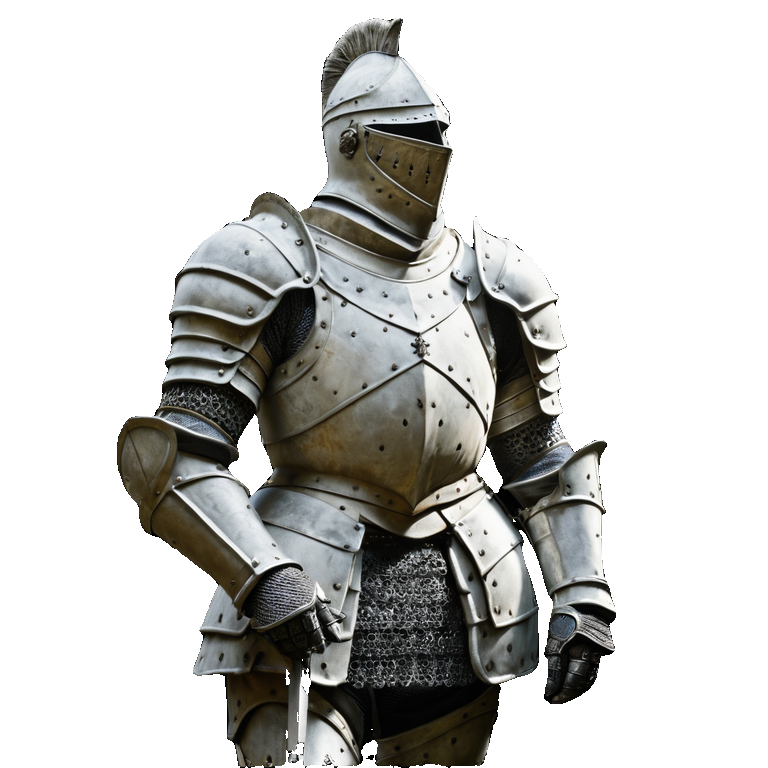
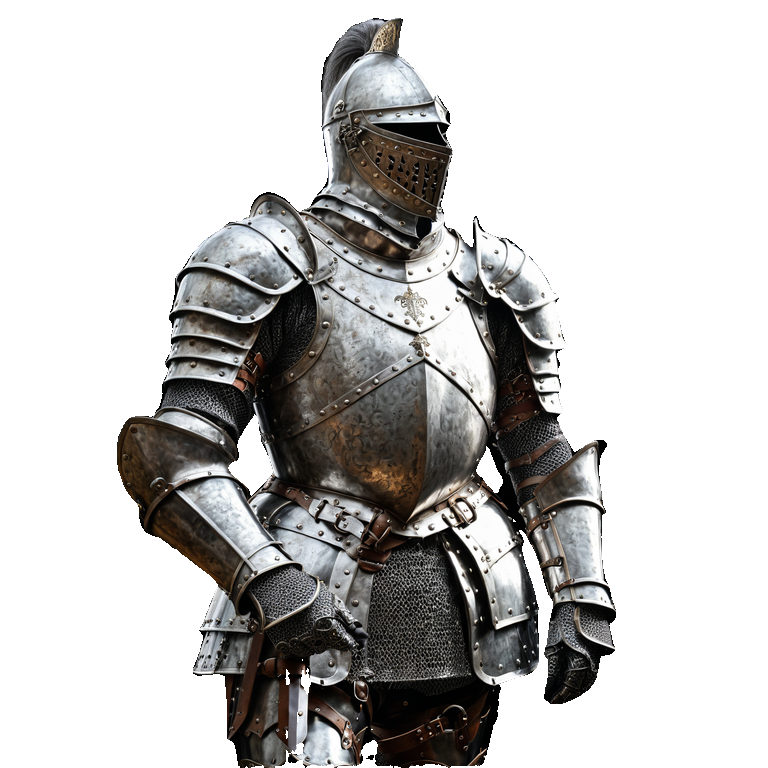
docs(showcase): regen step4 with real detail uplift + add step5 (Blend Layers)
Step 4 was visibly indistinguishable from step 2 (denoise 0.35 was too subtle).
Re-ran the Detail Hallucination pipeline at denoise 0.55, 35 steps, CFG 7.5
with a strong detail prompt (ornate engravings, hammered steel, filigree,
rivets, patina). Result now shows clearly upgraded armour texture vs step 2.

Added step 5: Blend Layers — reintegrates the enhanced transparent knight
back onto the original SDXL scene (step 1) via alpha composite. Showcase now
demonstrates the full round trip: generate -> isolate -> analyze -> enhance
-> reintegrate. Title and lead-in updated from "4 clicks" to "5 clicks".

Changed region(s): [[0.1562, 0.0, 0.8125, 1.0]]

diff --git a/README.md b/README.md
@@ -98,16 +98,17 @@ Every tool starts with expert-tuned presets that just work. But as you get comfo
 
 ---
 
-## See It in Action: Generate → Select → Map → Enhance
+## See It in Action: Generate → Select → Map → Enhance → Blend
 
-A real pipeline — 4 clicks, zero configuration, every step is one menu item. We timed it. It takes longer to microwave a Hot Pocket. And unlike a Hot Pocket, the result doesn't make you question your life choices:
+A real pipeline — 5 clicks, zero configuration, every step is one menu item. We timed it. It takes longer to microwave a Hot Pocket. And unlike a Hot Pocket, the result doesn't make you question your life choices:
 
 <table>
 <tr>
-<td width="25%"><img src="assets/showcase_3d_step1_generate.png" alt="Step 1: Generate" width="100%"/><br/><sub><strong>1. Generate</strong> — SDXL creates the scene</sub></td>
-<td width="25%"><img src="assets/showcase_3d_step2_sam3.png" alt="Step 2: AI Select" width="100%"/><br/><sub><strong>2. AI Select</strong> — SAM3 isolates the statue</sub></td>
-<td width="25%"><img src="assets/showcase_3d_step3_normalmap.png" alt="Step 3: Normal Map" width="100%"/><br/><sub><strong>3. 3D Normal Map</strong> — surface geometry extracted</sub></td>
-<td width="25%"><img src="assets/showcase_3d_step4_enhance.png" alt="Step 4: Enhance" width="100%"/><br/><sub><strong>4. Detail Enhance</strong> — surgical texture refinement</sub></td>
+<td width="20%"><img src="assets/showcase_3d_step1_generate.png" alt="Step 1: Generate" width="100%"/><br/><sub><strong>1. Generate</strong> — SDXL creates the scene</sub></td>
+<td width="20%"><img src="assets/showcase_3d_step2_sam3.png" alt="Step 2: AI Select" width="100%"/><br/><sub><strong>2. AI Select</strong> — SAM3 isolates the statue</sub></td>
+<td width="20%"><img src="assets/showcase_3d_step3_normalmap.png" alt="Step 3: Normal Map" width="100%"/><br/><sub><strong>3. 3D Normal Map</strong> — surface geometry extracted</sub></td>
+<td width="20%"><img src="assets/showcase_3d_step4_enhance.png" alt="Step 4: Enhance" width="100%"/><br/><sub><strong>4. Detail Enhance</strong> — surgical texture refinement on the isolated layer</sub></td>
+<td width="20%"><img src="assets/showcase_3d_step5_blend.png" alt="Step 5: Blend Layers" width="100%"/><br/><sub><strong>5. Blend Layers</strong> — reintegrated into the original scene</sub></td>
 </tr>
 </table>
 
